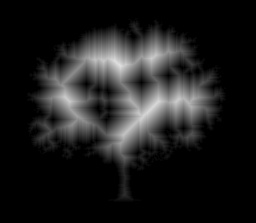
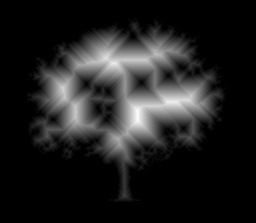
split eight and four

diff --git a/HW3/hw3.py b/HW3/hw3.py
@@ -29,7 +29,10 @@ def distance_transform(source_img, distance_map, filename, connect):
         last_distance_map = deepcopy(distance_map)
         for i in range(len(source_img)):
             for j in range(len(source_img[0])):
-                neighbors = add_neighbors_four(distance_map, len(source_img), len(source_img[0]), i, j)
+                if connect == 4:
+                    neighbors = add_neighbors_four(distance_map, len(source_img), len(source_img[0]), i, j)
+                elif connect == 8:
+                    neighbors = add_neighbors_eight(distance_map, len(source_img), len(source_img[0]), i, j)
 
                 if distance_map[i][j] != 0:
                     distance_map[i][j] = min(neighbors) + 1
